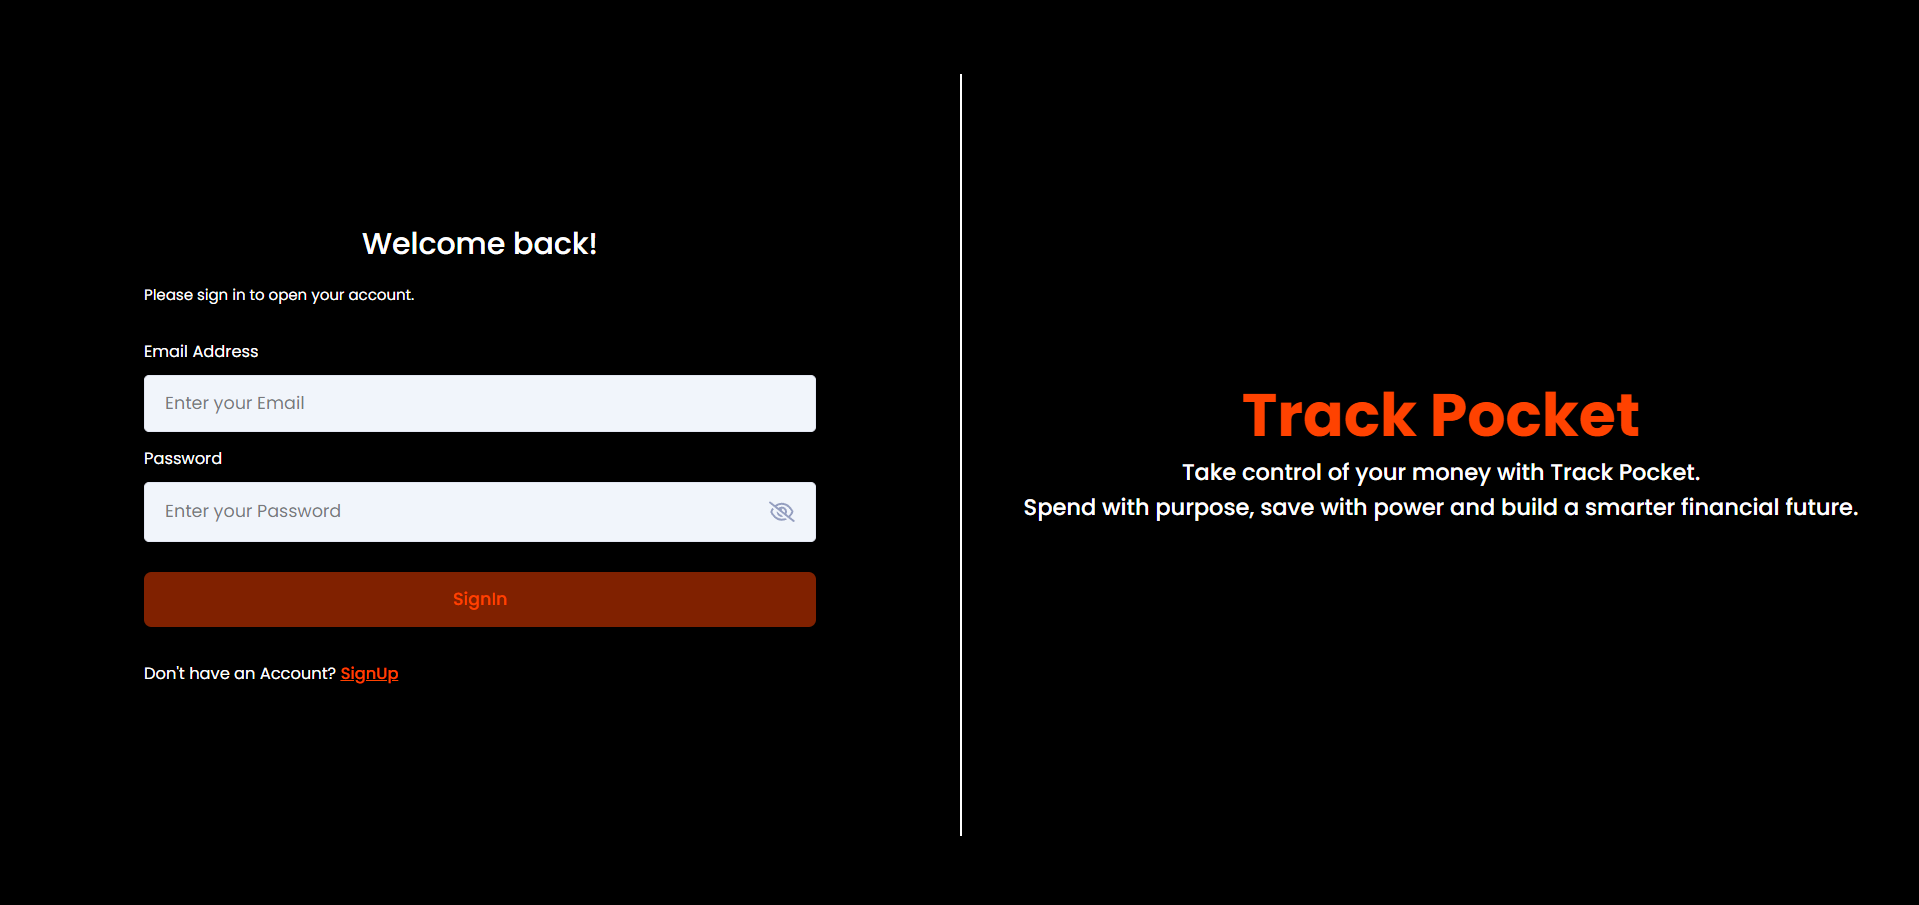
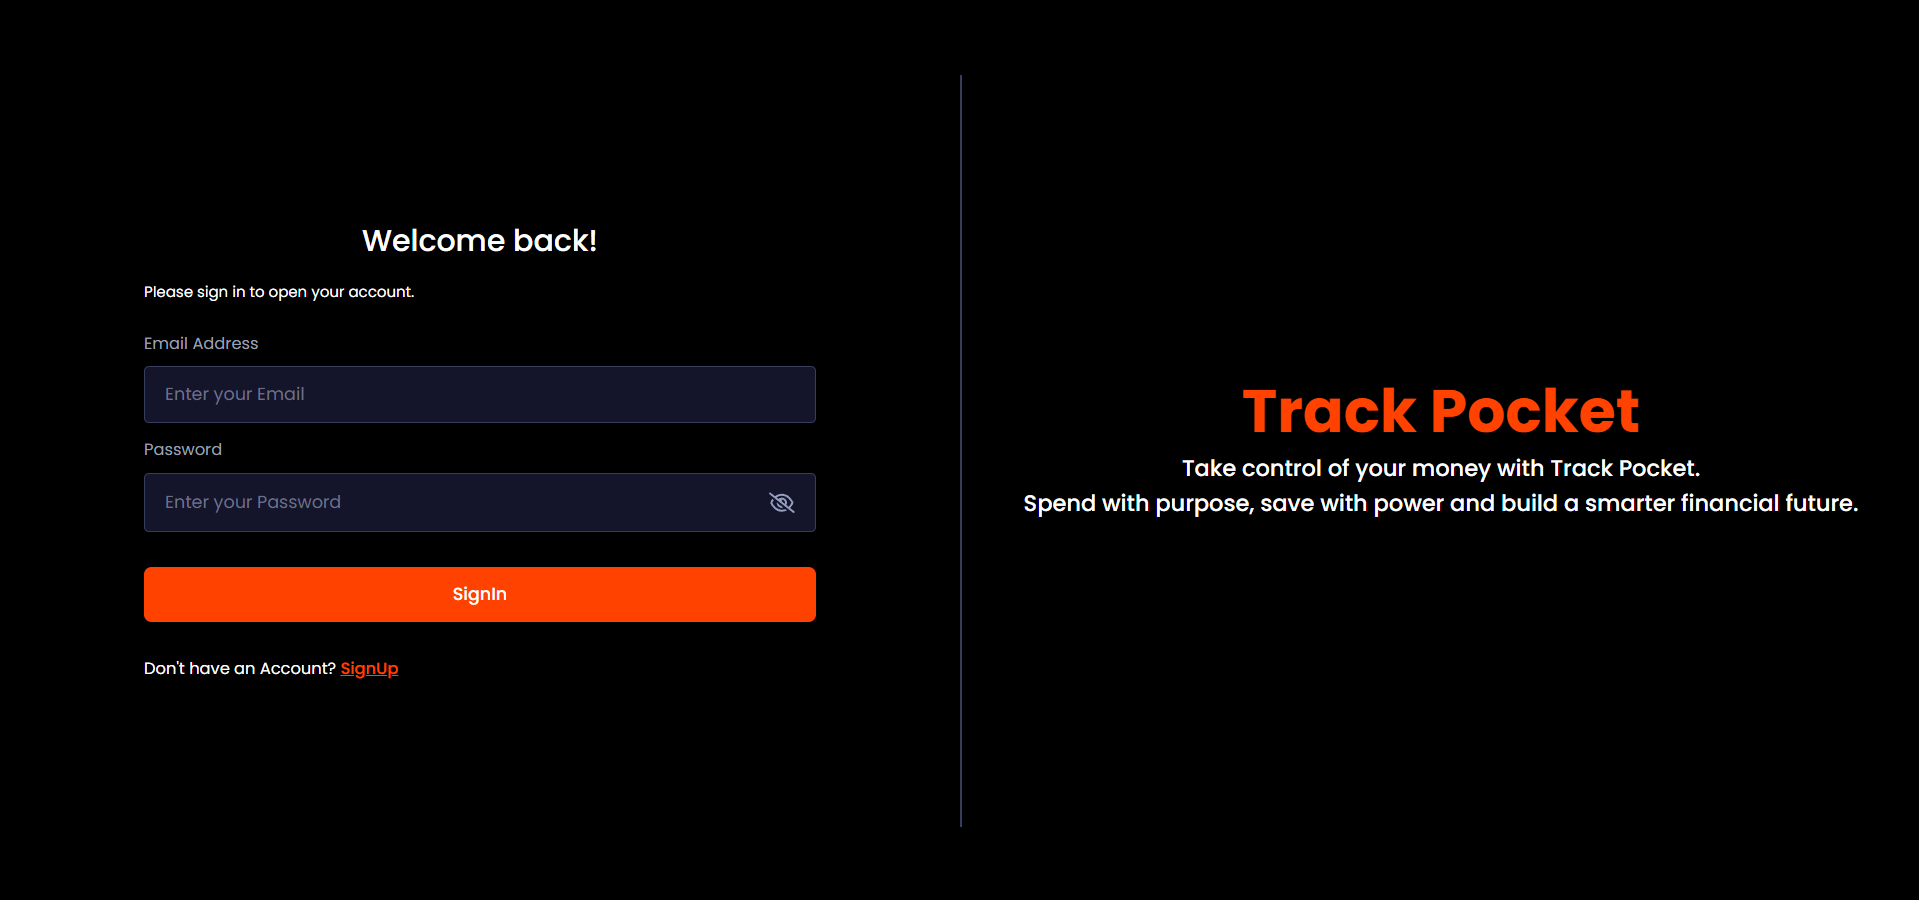
Updated Projects

diff --git a/src/data/portfolioData.js b/src/data/portfolioData.js
@@ -32,9 +32,11 @@ import next from "../assets/next.png";
 import typescript from "../assets/typescript.png";
 import flask from "../assets/flask.png";
 import firebase from "../assets/firebase.png";
-import bootstrap from "../assets/bootstrap.png";
 import jupyter from "../assets/jupyter.png";
 import streamlit from "../assets/streamlit.png";
+import flutter from "../assets/flutter.png";
+import pdfassistant from "../assets/pdfassistant.png";
+import jobportal from "../assets/jobportal.png";
 //import certificateImg from "../assets/certificate.png";
 
 export const personalInfo = {
@@ -66,8 +68,8 @@ export const personalInfo = {
 export const skills = [
     {
         title: "Frontend",
-        skills: ["HTML", "CSS", "JavaScript", "TailwindCSS", "Bootstap", "React.js", "TypeScript", "Next.js"],
-        logos: [html, css, js, tailwind, bootstrap, react, typescript, next]
+        skills: ["HTML", "CSS", "JavaScript", "TailwindCSS", "React.js", "TypeScript", "Next.js", "Flutter"],
+        logos: [html, css, js, tailwind, react, typescript, next, flutter]
     },
     {
         title: "Backend",
@@ -107,10 +109,32 @@ export const experiences = [
 
 export const projects = [
     {
+        title: "Interactive PDF Assistant",
+        description: 
+            `Developed an Interactive PDF Assistant that enables users to upload documents and query them using natural language
+            with secure, offline LLM processing via Ollama. Implemented semantic search using LangChain, ChromaDB, and Sentence
+            Transformers, with multilingual support and text-to-speech for enhanced document interaction.`,
+        image: pdfassistant,
+        tags: ["Python", "Streamlit", "Ollama", "ChromaDB", "Langchain","Sentence-Transformers"],
+        sourceCode: "https://github.com/SanthoshReddy-5/interactive_pdf_assistant",
+        duration: "Jan 2026 - Feb 2026",
+        collaborators: []
+    },
+    {
+        title: "Job Portal Application",
+        description: 
+            `Built a full-stack Job Portal using Next.js, React, TypeScript, Tailwind CSS, and MySQL, enabling job posting and application workflows. Implemented secure authentication with argon2, form handling using React Hook Form & Zod, and database management with Drizzle ORM. Integrated UploadThing and TipTap for file uploads and rich text editing.`,
+        image: jobportal,
+        tags: ["React.js", "Next.js", "MySQL","TailwindCSS","TypeScript","Zod","React Hook Form"],
+        sourceCode: "https://github.com/SanthoshReddy-5/jobPortal",
+        duration: "Nov 2025 - Mar 2026",
+        collaborators: []
+    },
+    {
         title: "Utkarsh 2025 - Website",
         description: "Utkarsh 2025 is the official website for the annual tech and cultural fest of Swarnandhra College of Engineering and Technology, organized by the IT Department (IT & DS). It serves as a registration portal for the 24-hour hackathon, technical and non-technical events and online games conducted during the fest. The website features a responsive, user-friendly design that ensures a smooth and engaging experience for all participants.",
         image: utkarsh,
-        tags: ["TailwindCSS", "React.js", "TypeScript", "Shadcn", "Lovable"],
+        tags: ["TailwindCSS", "React.js", "TypeScript", "Shadcn", "Google Forms"],
         livePreview: "https://www.swarnandhra.ac.in/utkarsh2025",
         sourceCode: "https://github.com/sumanthreddy217/Utkarsh2k25",
         duration: "Aug 2025",
@@ -135,7 +159,7 @@ export const projects = [
         title: "Expense Tracker",
         description: "TrackPocket is a modern expense tracker built with the MERN stack and Tailwind CSS, designed to help users manage their finances easily. It provides secure JWT-based authentication, allowing users to safely log in and track their expenses and income. With features like categorization, real-time updates, and a clean responsive UI, users can get a clear overview of their spending habits. TrackPocket makes budgeting simple, accessible, and efficient for everyone.",
         image: trackpocket,
-        tags: ["React.js", "TailwindCSS", "MongoDB", "Node.js", "Express.js", "Vercel"],
+        tags: ["MongoDB", "Express.js", "React.js", "Node.js", "TailwindCSS"],
         sourceCode: "https://github.com/SanthoshReddy-5/Expense_Tracker",
         livePreview: "https://trackpocket.vercel.app",
         duration: "May 2025 - Jun 2025",

diff --git a/src/components/ProjectsSection.jsx b/src/components/ProjectsSection.jsx
@@ -72,13 +72,13 @@ const ProjectsSection = () => {
 
                         <div className="flex gap-2 my-4 flex-wrap">
                             {selectedProject.tags.map((tag, i) => (
-                                <span key={i} className="px-1 md:px-2 py-0.5 md:py-1 text-[10px] md:text-[18px] rounded-[5px] bg-blue-500/10 hover:bg-blue-500/20 text-gray-300 font-medium hover:text-gray-50 border border-blue-500 cursor-pointer">{tag}</span>
+                                <span key={i} className="px-1 md:px-2 py-0.5 md:py-1 text-[12px] md:text-[18px] rounded-[5px] bg-blue-500/10 hover:bg-blue-500/20 text-gray-300 font-medium hover:text-gray-50 border border-blue-500 cursor-pointer">{tag}</span>
                             ))}
                         </div>
 
-                        <h2 className="text-[18px] md:text-[25px] font-bold text-white mb-1">{selectedProject.title}</h2>
-                        <span className="text-[14px] md:text-[18px] text-gray-300 mb-4">{selectedProject.duration || ""}</span>
-                        <p className="text-[12px] md:text-[20px] text-gray-300 mb-4">{selectedProject.description}</p>
+                        <h2 className="text-[20px] md:text-[25px] font-bold text-white mb-1">{selectedProject.title}</h2>
+                        <span className="text-[15px] md:text-[18px] text-gray-300 mb-4">{selectedProject.duration || ""}</span>
+                        <p className="text-[16px] md:text-[20px] text-gray-300 mb-4">{selectedProject.description}</p>
 
                         <div className="mb-4">
                             <h3 className="font-semibold text-gray-100 mb-2 text-[16px] md:text-[22px]">Team Members</h3>
@@ -90,7 +90,7 @@ const ProjectsSection = () => {
                                         className="w-8 md:w-12 h-8 md:h-12 rounded-full object-cover border border-blue-500"
                                     />
                                     <span className="font-medium text-[12px] md:text-[18px] mr-[20px] text-gray-200">Santhosh Reddy (Me)</span>
-                                    <a href={personalInfo.socials.github} target="_blank" rel="noopener noreferrer" className="text-gray-200 hover:text-purple-500">
+                                    <a href={personalInfo.socials.github} target="_blank" rel="noopener noreferrer" className="text-gray-200 hover:text-green-500">
                                         <FaGithub size={30} />
                                     </a>
                                     <a href={personalInfo.socials.linkedin} target="_blank" rel="noopener noreferrer" className="text-gray-200 hover:text-purple-500">
@@ -107,7 +107,7 @@ const ProjectsSection = () => {
                                                 className="w-8 md:w-12 h-8 md:h-12 rounded-full object-cover border border-blue-500"
                                             />
                                             <span className="font-medium text-[12px] md:text-[18px] mr-[20px] text-gray-200">{col.name}</span>
-                                            <a href={col.github} target="_blank" rel="noopener noreferrer" className="text-gray-200 hover:text-purple-500 cursor-pointer">
+                                            <a href={col.github} target="_blank" rel="noopener noreferrer" className="text-gray-200 hover:text-green-500 cursor-pointer">
                                                 <FaGithub size={30} />
                                             </a>
                                             <a href={col.linkedin} target="_blank" rel="noopener noreferrer" className="text-gray-200 hover:text-purple-500 cursor-pointer">

diff --git a/src/components/HeroSection.jsx b/src/components/HeroSection.jsx
@@ -19,7 +19,7 @@ const HeroSection = () => {
           <div className="text-[16px] md:text-[20px] text-center md:text-left text-gray-800">{personalInfo.about}</div>
           <div className='flex items-center justify-between flex-col md:flex-row gap-[20px] md:gap-[30px] my-[20px] md:mx-auto w-full md:w-auto'>
             <a href="#contact" className='w-full md:w-auto px-[18px] py-[12px] md:px-[12px] md:py-[10px] border-2 bg-purple-500 md:bg-purple-500/20 hover:bg-purple-500 border-purple-500 rounded-full text-white md:text-black hover:text-white text-[16px] md:text-[20px] flex items-center justify-center gap-[5px] font-medium transition-all duration-300'>Contact Me <HiOutlineMail size={20}/></a>
-            <a href={personalInfo.resume} className='w-full md:w-auto px-[8px] py-[12px] md:px-[15px] md:py-[10px] bg-blue-500 md:bg-blue-500/20 hover:bg-blue-500 text-white md:text-black hover:text-white border-2 border-blue-500 text-[16px] md:text-[20px] rounded-full flex items-center justify-center gap-[5px] font-medium transition-all duration-300'>Check Resume <HiOutlineDocumentText size={20} /></a>
+            <a href={personalInfo.resume} target="_blank" className='w-full md:w-auto px-[8px] py-[12px] md:px-[15px] md:py-[10px] bg-blue-500 md:bg-blue-500/20 hover:bg-blue-500 text-white md:text-black hover:text-white border-2 border-blue-500 text-[16px] md:text-[20px] rounded-full flex items-center justify-center gap-[5px] font-medium transition-all duration-300'>Check Resume <HiOutlineDocumentText size={20} /></a>
           </div>
         </div>
 